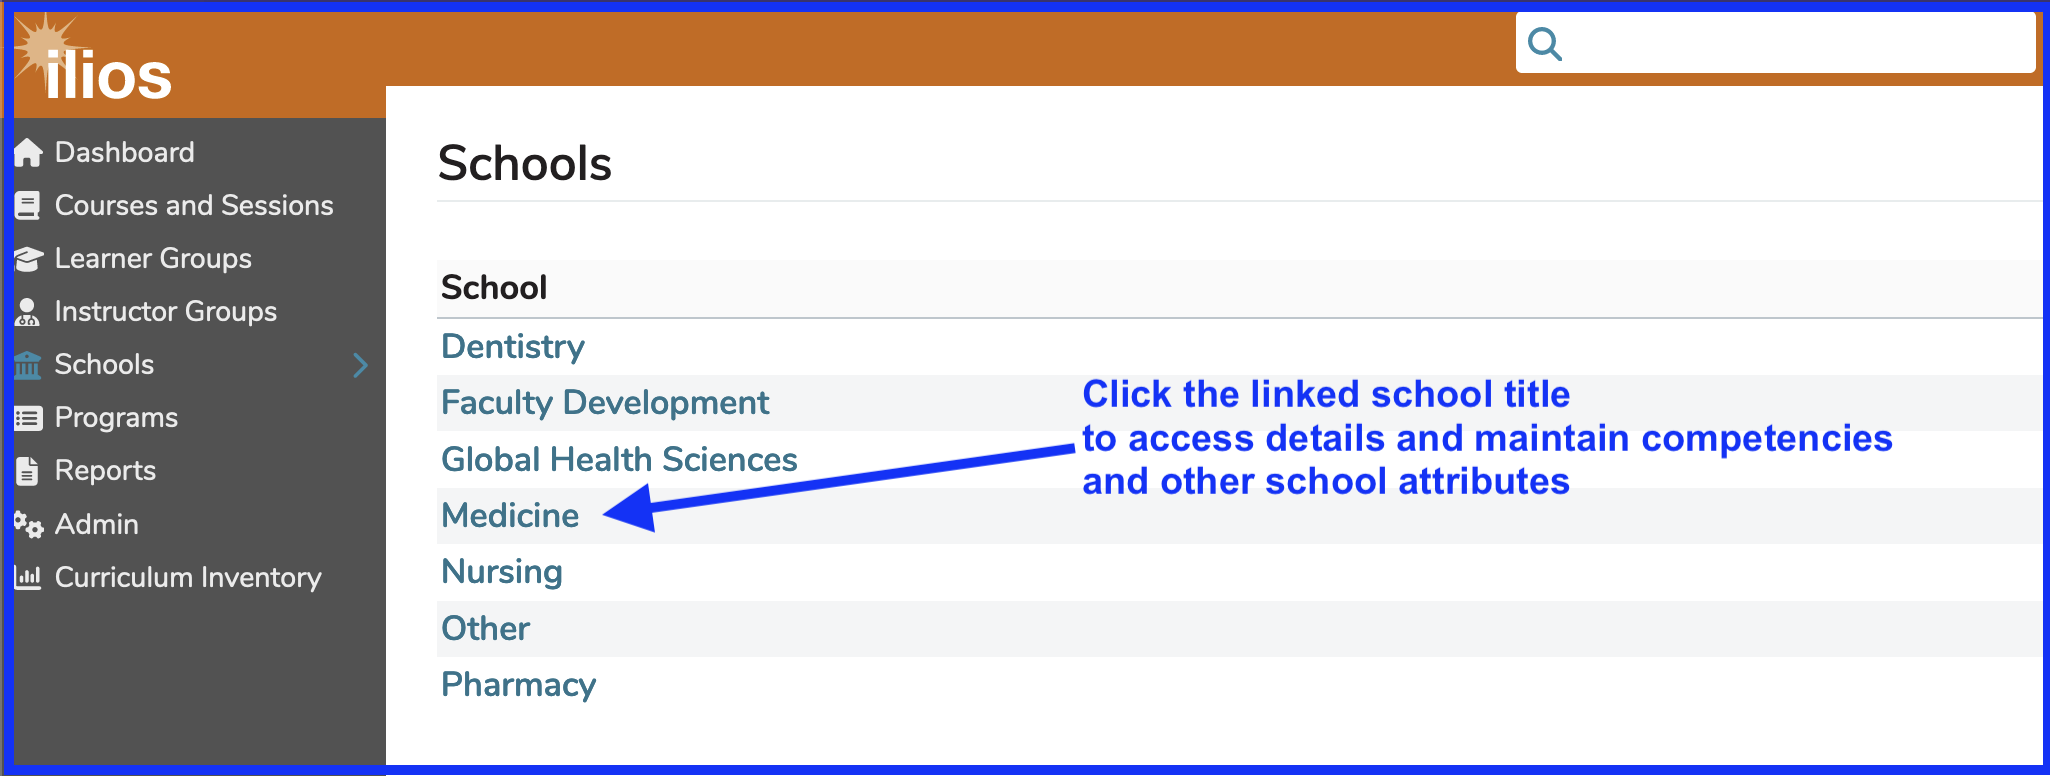
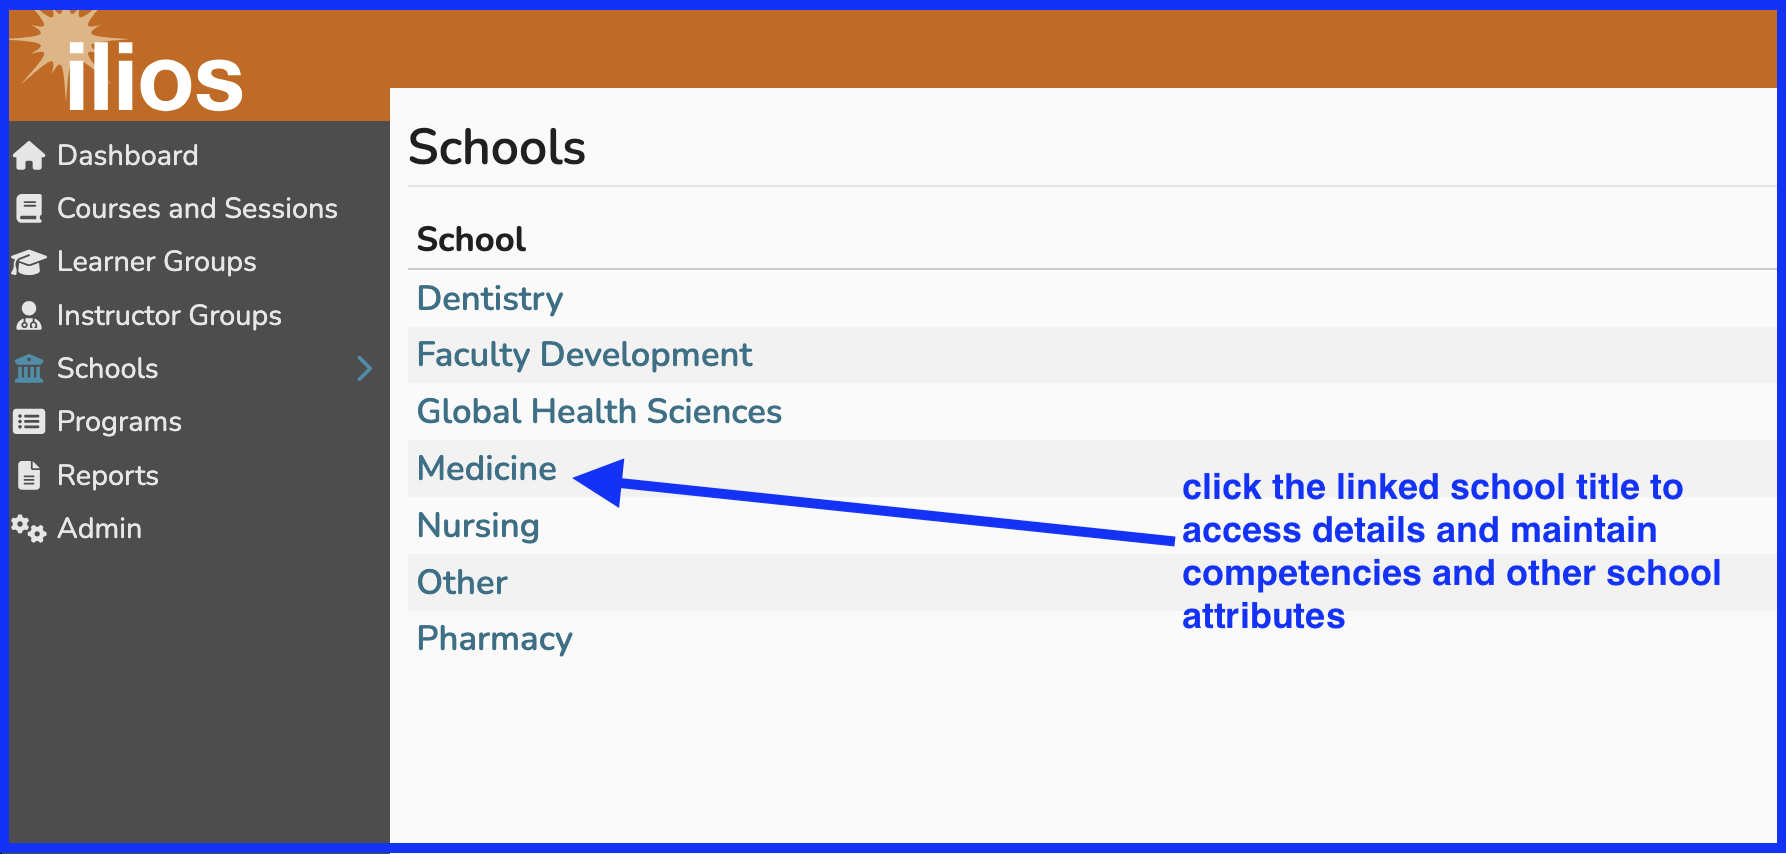
image replaced - no CI - text updated too

Changed region(s): [[0.0, 0.0, 1.0, 1.0]]

diff --git a/schools/competencies.md b/schools/competencies.md
@@ -11,7 +11,7 @@ Competency domains and sub-domains can be managed within the Ilios application. 
 
 ![select school](../images/schools/competencies/select_school.png)
 
-Now that the School of Medicine has been selected, Competencies can be maintained using the following interface and commands. An oveview of the Schools screen is shown below. Maintaining email addresses and now defunct Curriculum Inventory information is not shown in the screen shot. Aside from those, the screen shot is complete.
+Now that the School of Medicine has been selected, competencies can be maintained using the following interface and commands. An oveview of the Schools screen is shown below. Maintaining email addresses and now defunct Curriculum Inventory information is not shown in the screen shot. Aside from those, the screen shot is complete.
 
 ## School Screen Overview
 
